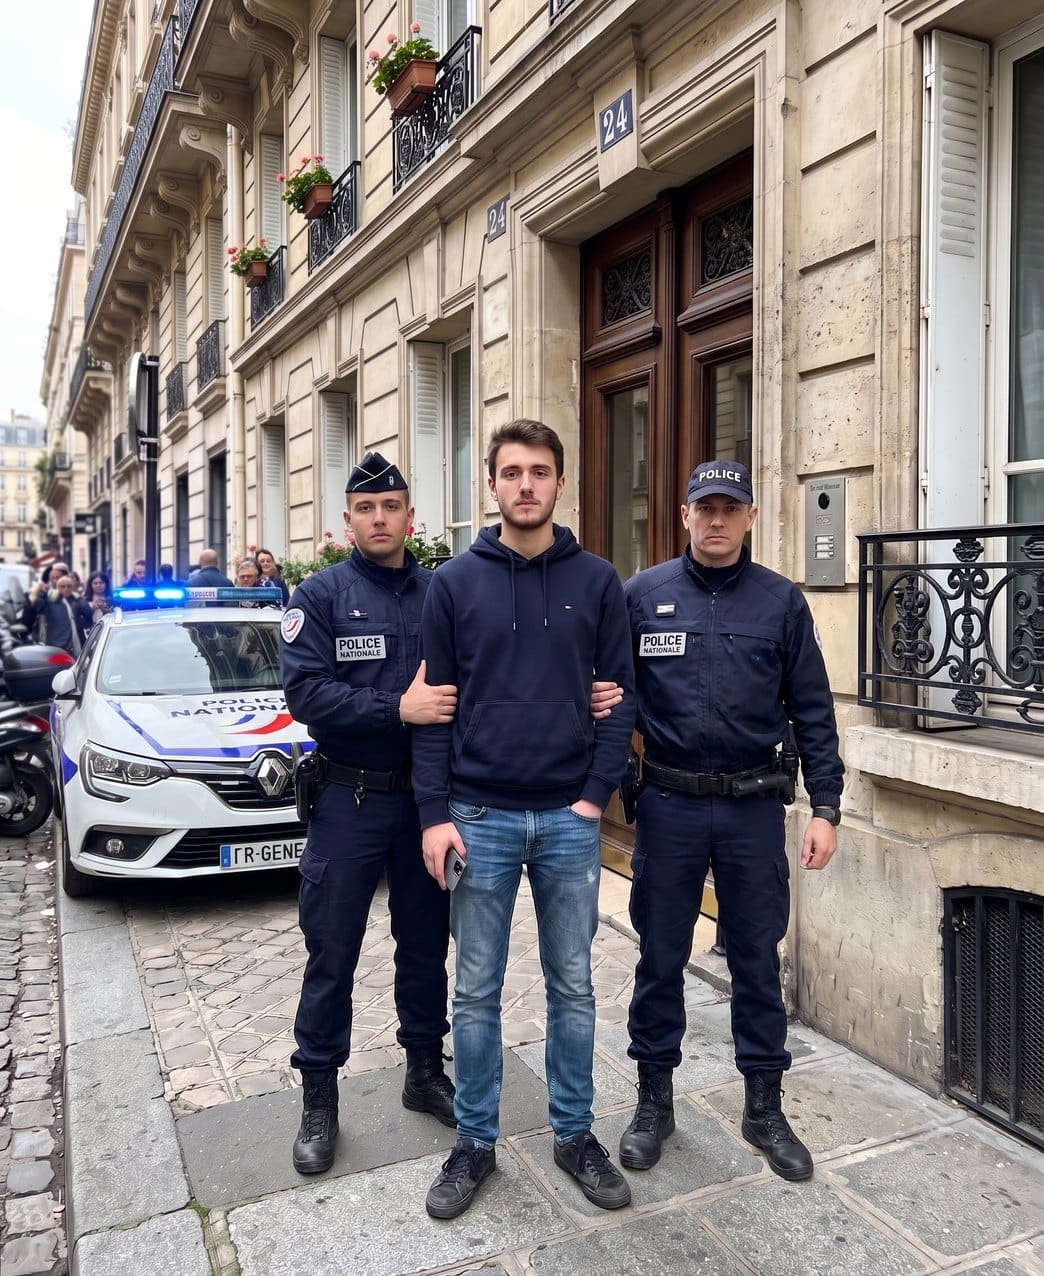
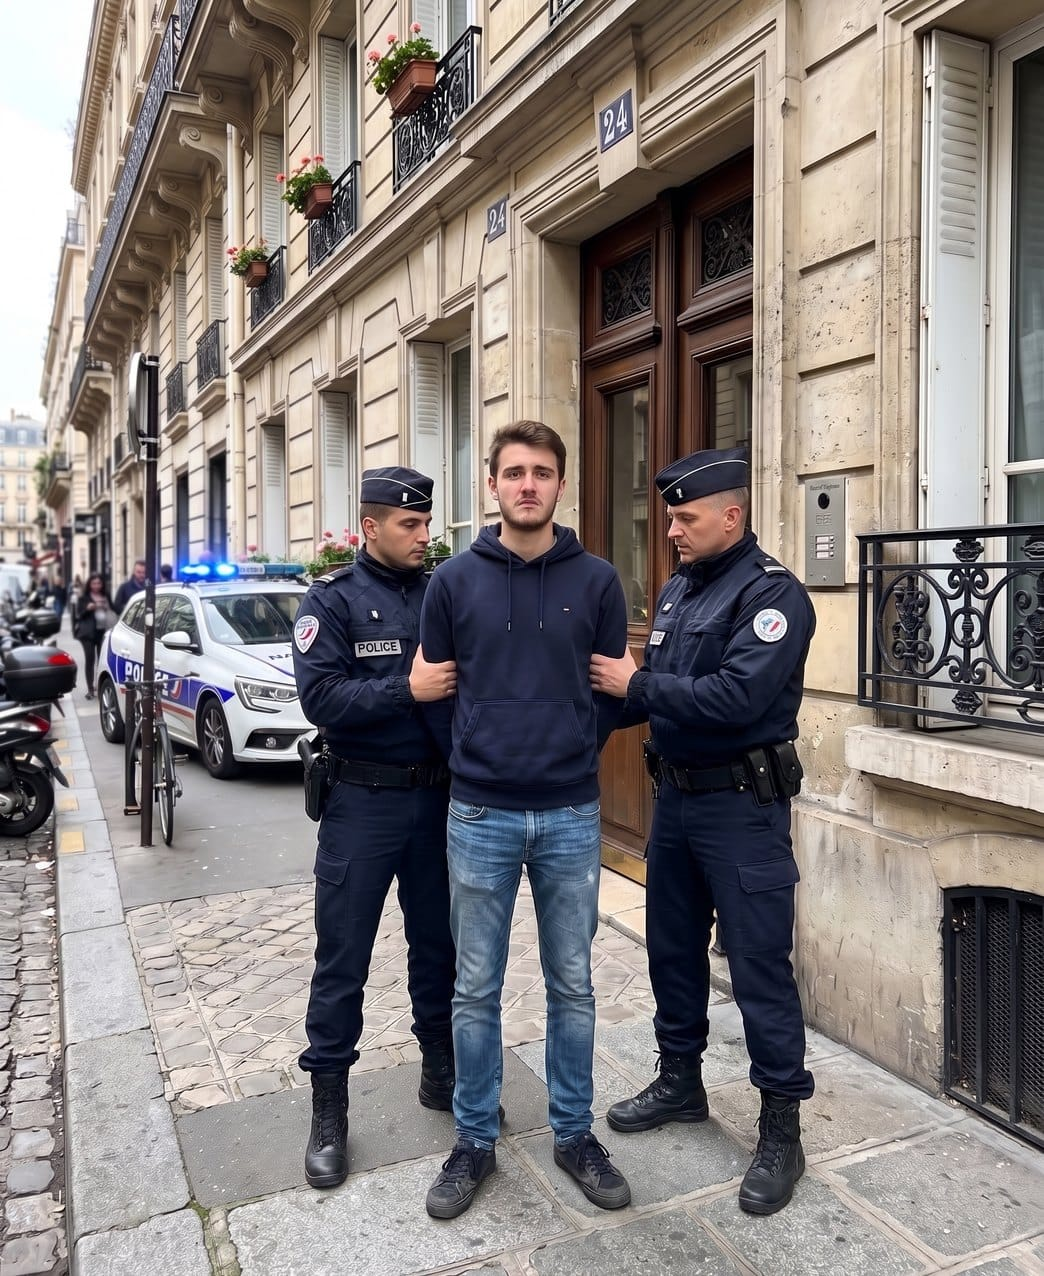
fix(templates): placement réaliste des voitures et policiers (Police)
Les voitures se garaient sur le trottoir ou contre la façade, et la
personne arrêtée gardait le sourire de sa photo. Les deux prompts
imposent désormais la chaussée (et aucune voiture sans route visible),
l'échelle et l'ancrage au sol des policiers, les mains menottées dans
le dos et une expression inquiète ; formulation neutre (« their »).
Visuels d'exemple régénérés avec ces prompts.

diff --git a/lib/template-prompts.ts b/lib/template-prompts.ts
@@ -83,6 +83,14 @@ const VEHICLE_PROMPTS: Record<string, PromptEntry> = Object.fromEntries(
   ]),
 );
 
+/**
+ * Où une voiture de police a le droit d'apparaître, commun aux deux
+ * variantes Police : sur la chaussée, jamais sur un trottoir — et nulle part
+ * si la photo ne montre aucune route.
+ */
+const POLICE_CAR_PARKING =
+  "parked on the roadway against the kerb, parallel to it, all four wheels on the asphalt, never on a pavement, pedestrian area, lawn or driveway — only where a car could really have been driven and parked, at the same scale and perspective as the street, partly cut by the frame edge if that is where the road is; if no drivable road is visible, leave the cars out entirely and show only the blue glow of their lights on nearby surfaces";
+
 /** Pranks : édition sur place, certains gabarits déclinés en variantes. */
 const PRANK_PROMPTS: Record<string, PromptEntry> = {
   "voiture-accidentee": {
@@ -136,13 +144,21 @@ const PRANK_PROMPTS: Record<string, PromptEntry> = {
   // Ajoute des policiers alors que REALISM_CORE dit « no added people » :
   // testé le 22/10, le changement demandé l'emporte et les rendus restent
   // crédibles — le cœur commun n'a donc pas été touché pour ce gabarit.
+  //
+  // Prompts plus longs que les autres pranks, à contre-courant de la règle
+  // « une phrase vaut mieux » : sans consignes de placement, le modèle
+  // garait la voiture sur le trottoir ou contre la façade, et gardait le
+  // sourire de la photo d'origine pendant l'arrestation. A/B du 22/10 sur
+  // quatre photos (rue, façade sans route, homme, femme) : voitures sur la
+  // chaussée, aucune voiture quand aucune route n'est visible, identité
+  // conservée.
   police: {
     variants: {
       devant: buildInPlaceEditPrompt(
-        "a police intervention in front of the house — two marked French Police nationale cars parked in the street with their blue lights flashing and several uniformed French police officers standing at the gate and in the front garden",
+        `a police intervention in front of the house: two marked French Police nationale cars (white, blue and red livery, blue roof lights flashing) ${POLICE_CAR_PARKING}; three or four uniformed French police officers standing on the pavement and at the gate or front door, feet planted on the ground with contact shadows, sized consistently with the door and gate, spaced apart and never overlapping walls, fences, plants or each other`,
       ),
       arrestation: buildInPlaceEditPrompt(
-        "the person being arrested by two uniformed French Police nationale officers holding his arms, his hands handcuffed behind his back, a marked French police car with blue lights flashing parked at the curb behind them",
+        `the person being arrested: two uniformed French Police nationale officers standing close on either side, each firmly gripping one of the person's upper arms, the person's hands handcuffed behind their back, their expression tense and worried; a marked French Police nationale car (white, blue and red livery, blue roof lights flashing) behind them, ${POLICE_CAR_PARKING}`,
       ),
     },
   },
